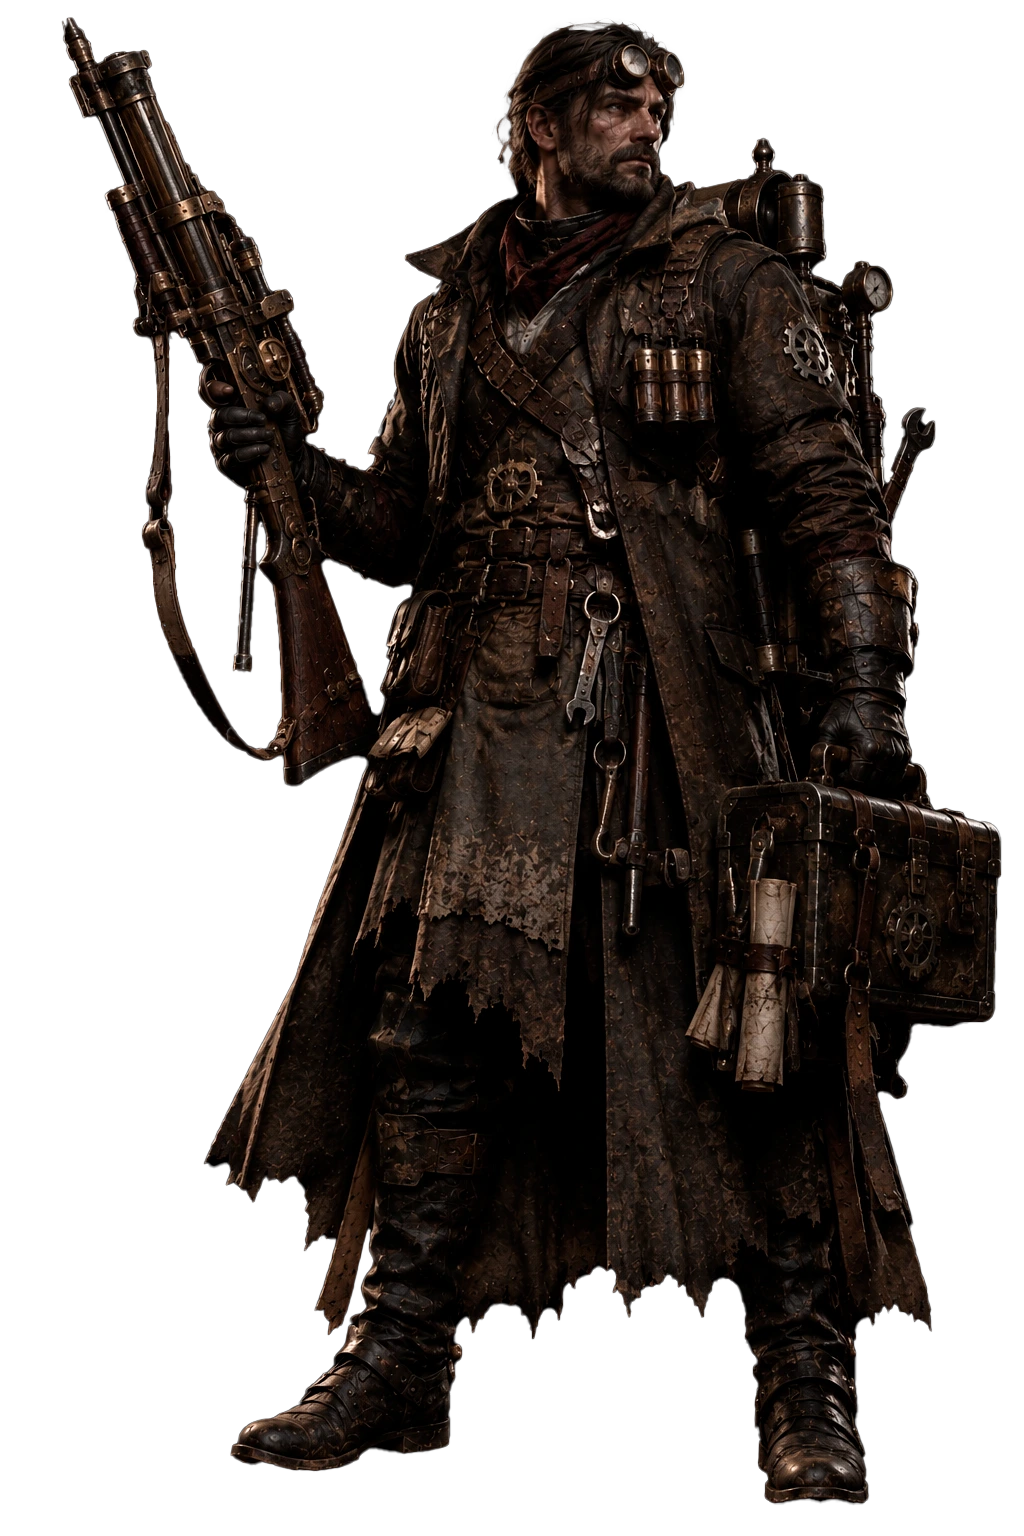
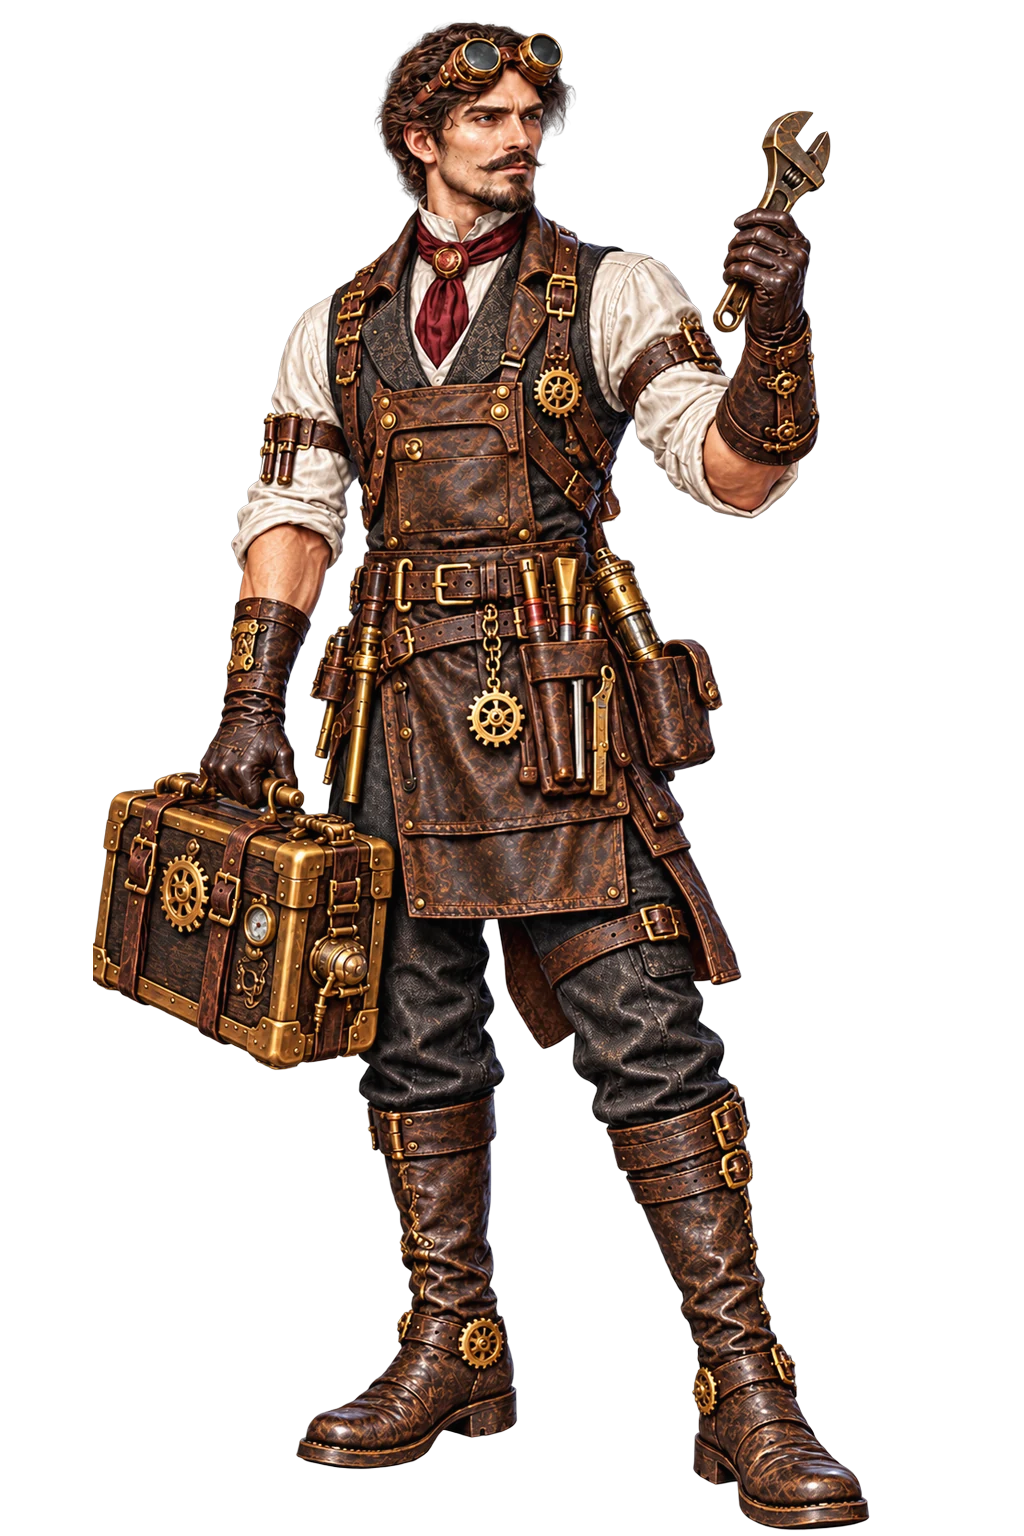
Новый инженер-меттенхеймец; заставка на узких экранах и телефоне
Claude-Session: https://claude.ai/code/session_01LxJh9mEmZSXRc61koe8BVg

diff --git a/style.css b/style.css
@@ -1846,3 +1846,31 @@ input[type="email"] { width: 100%; background: #0f0b08; border: 1px solid var(--
   .side .caption h2 { font-size: clamp(22px, 3vw, 30px); }
   .side .caption .pick { letter-spacing: .14em; font-size: 11px; }
 }
+/* Герой: тёмная подложка под девизом, чтобы текст читался поверх персонажей */
+.hero-core::before { content: ""; position: absolute; z-index: -1; left: 50%; top: 56%; width: 150%; height: 70%; transform: translate(-50%, -50%); background: radial-gradient(ellipse at center, rgba(8,6,5,.78), rgba(8,6,5,.45) 45%, transparent 72%); pointer-events: none; }
+.hero-core .motto, .hero-core .status { position: relative; }
+@media (min-width: 761px) and (max-width: 1100px) {
+  .side .art { background-size: auto 74%; }
+  .hero-core .ring { width: min(210px, 30vw, 30svh); }
+  .hero-core .motto { margin-top: calc(min(210px, 30vw, 30svh) * .16 + 14px); letter-spacing: .24em; }
+}
+/* Герой на телефоне: герб сверху, два Дома рядом, плашки сходятся к центру */
+@media (max-width: 760px) {
+  .hero { flex-direction: row; flex-wrap: wrap; }
+  .hero-core { flex: 0 0 100%; padding: 22px 12px 6px; }
+  .hero-core::before { display: none; }
+  .hero-core .ring { width: 150px; }
+  .hero-core .motto { margin-top: 36px; font-size: 11px; letter-spacing: .22em; }
+  .hero-core .status { font-size: 17px; }
+  .side { flex: 1 1 50%; min-height: 440px !important; }
+  .side .art { background-size: auto 96% !important; }
+  .side.talbot .art { background-position: 72% 0 !important; }
+  .side.dorn .art { background-position: 28% 0 !important; }
+  .side .caption { left: 6px !important; right: 6px !important; bottom: 8px; width: auto; padding: 10px 10px 9px; }
+  .side.talbot .caption { text-align: right; } .side.dorn .caption { text-align: left; }
+  .side.talbot .caption .pick { flex-direction: row-reverse; } .side.dorn .caption .pick { flex-direction: row; }
+  .side .caption small { font-size: 10px; letter-spacing: .18em; }
+  .side .caption h2 { font-size: clamp(17px, 5vw, 24px); margin: 2px 0 4px; white-space: nowrap; }
+  .side .caption .pick { margin-top: 6px; font-size: 9.5px; letter-spacing: .1em; gap: 6px; }
+  .side .caption .pick::before { width: 14px; }
+}

diff --git a/index.html b/index.html
@@ -18,7 +18,7 @@
 <link rel="preconnect" href="https://fonts.googleapis.com">
 <link rel="preconnect" href="https://fonts.gstatic.com" crossorigin>
 <link rel="stylesheet" href="https://fonts.googleapis.com/css2?family=Montserrat:ital,wght@0,400;0,500;0,600;0,700;0,800;1,400&display=swap">
-<link rel="stylesheet" href="style.css?v=13">
+<link rel="stylesheet" href="style.css?v=14">
 <link rel="icon" href="assets/logo.webp">
 </head>
 <body>
@@ -75,12 +75,12 @@
   </div>
 </div>
 
-<script src="data.js?v=13"></script>
-<script src="rules-data.js?v=13"></script>
-<script src="tools.js?v=13"></script>
-<script src="infernal.js?v=13"></script>
-<script src="config.js?v=13"></script>
-<script src="cabinet.js?v=13"></script>
-<script src="app.js?v=13"></script>
+<script src="data.js?v=14"></script>
+<script src="rules-data.js?v=14"></script>
+<script src="tools.js?v=14"></script>
+<script src="infernal.js?v=14"></script>
+<script src="config.js?v=14"></script>
+<script src="cabinet.js?v=14"></script>
+<script src="app.js?v=14"></script>
 </body>
 </html>
